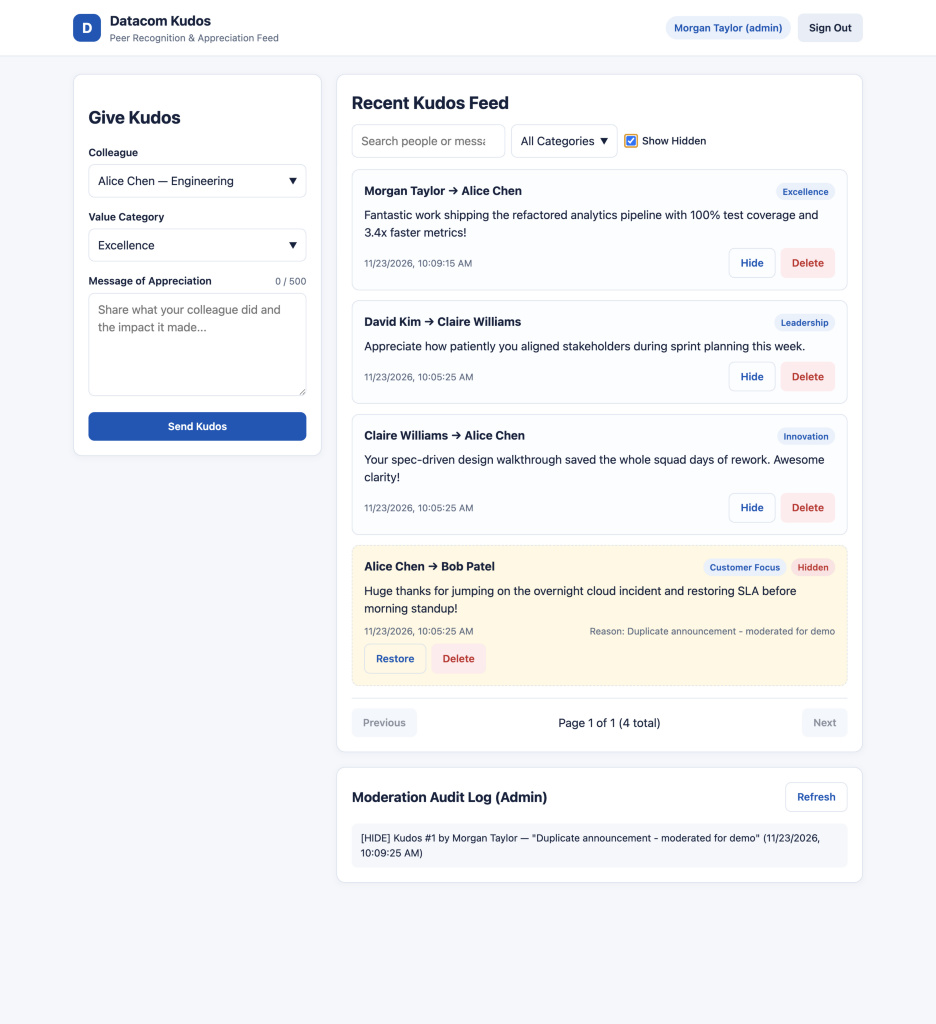
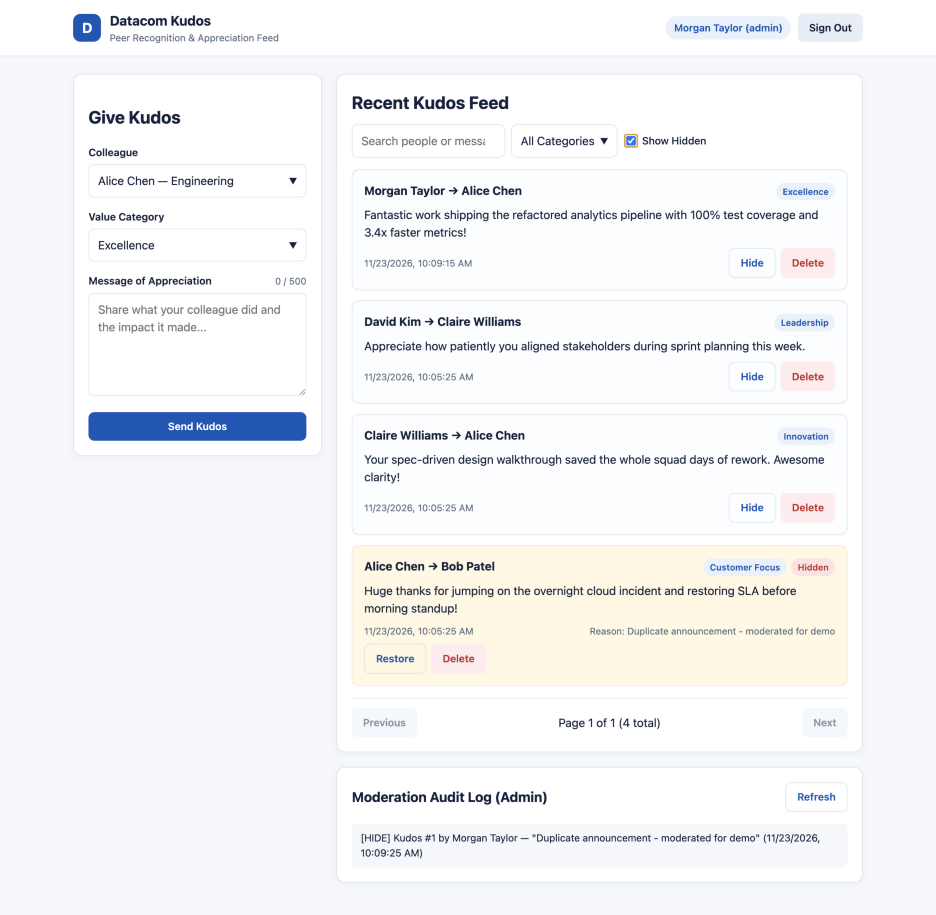
chore: polish Mermaid diagrams, trim UI screenshot, and upgrade CI to Node 24 actions

diff --git a/README.md b/README.md
@@ -15,11 +15,15 @@ End-to-end engineering portfolio for the **Datacom Automation AI Accelerator** v
 
 ```mermaid
 flowchart LR
-    T1["Task 1 · Pilot\nAI-Powered Debugging &\nPerformance Refactoring\n(16 Tests · 152.5x Lookup)"]
-    T2["Task 2 · Architect\nSpec-Driven Full-Stack\nKudos Portal + Moderation\n(SQLite · REST · RBAC · SPA)"]
-    T3["Task 3 · Strategic Partner\nOrderBot Autonomous AI\nAgent Architecture\n(3-Slide Executive Deck)"]
+    T1["<b>Task 1 · Pilot</b><br/>AI-Powered Debugging & Refactoring<br/>16 Tests · 3.47x Metrics · 152.5x Lookup"]
+    T2["<b>Task 2 · Architect</b><br/>Spec-Driven Full-Stack Kudos Portal<br/>SQLite · REST · RBAC · Audit Log"]
+    T3["<b>Task 3 · Strategic Partner</b><br/>OrderBot Autonomous AI Agent<br/>3-Slide Pitch · Read-Only PoC"]
 
     T1 --> T2 --> T3
+
+    style T1 fill:#EFF6FF,stroke:#0057B8,stroke-width:2px,color:#0A2540
+    style T2 fill:#F0FDF4,stroke:#059669,stroke-width:2px,color:#064E3B
+    style T3 fill:#0A2540,stroke:#0057B8,stroke-width:2px,color:#FFFFFF
 ```
 
 ---

diff --git a/README.zh-CN.md b/README.zh-CN.md
@@ -15,11 +15,15 @@
 
 ```mermaid
 flowchart LR
-    T1["Task 1 · Pilot\nAI 驱动调试与性能重构\n(16 项测试 · 最高提速 152.5x)"]
-    T2["Task 2 · Architect\n规范驱动全栈 Kudos 门户\n(SQLite · REST · RBAC · 审核审计)"]
-    T3["Task 3 · Strategic Partner\nOrderBot 自主智能体方案\n(3 页高管汇报矢量 Deck)"]
+    T1["<b>Task 1 · Pilot</b><br/>AI 驱动调试与性能重构<br/>16 项测试 · 最高提速 152.5x"]
+    T2["<b>Task 2 · Architect</b><br/>规范驱动全栈 Kudos 门户<br/>SQLite · REST · RBAC · 审核审计"]
+    T3["<b>Task 3 · Strategic Partner</b><br/>OrderBot 自主智能体方案<br/>3 页高管汇报 · 只读 PoC"]
 
     T1 --> T2 --> T3
+
+    style T1 fill:#EFF6FF,stroke:#0057B8,stroke-width:2px,color:#0A2540
+    style T2 fill:#F0FDF4,stroke:#059669,stroke-width:2px,color:#064E3B
+    style T3 fill:#0A2540,stroke:#0057B8,stroke-width:2px,color:#FFFFFF
 ```
 
 ---
